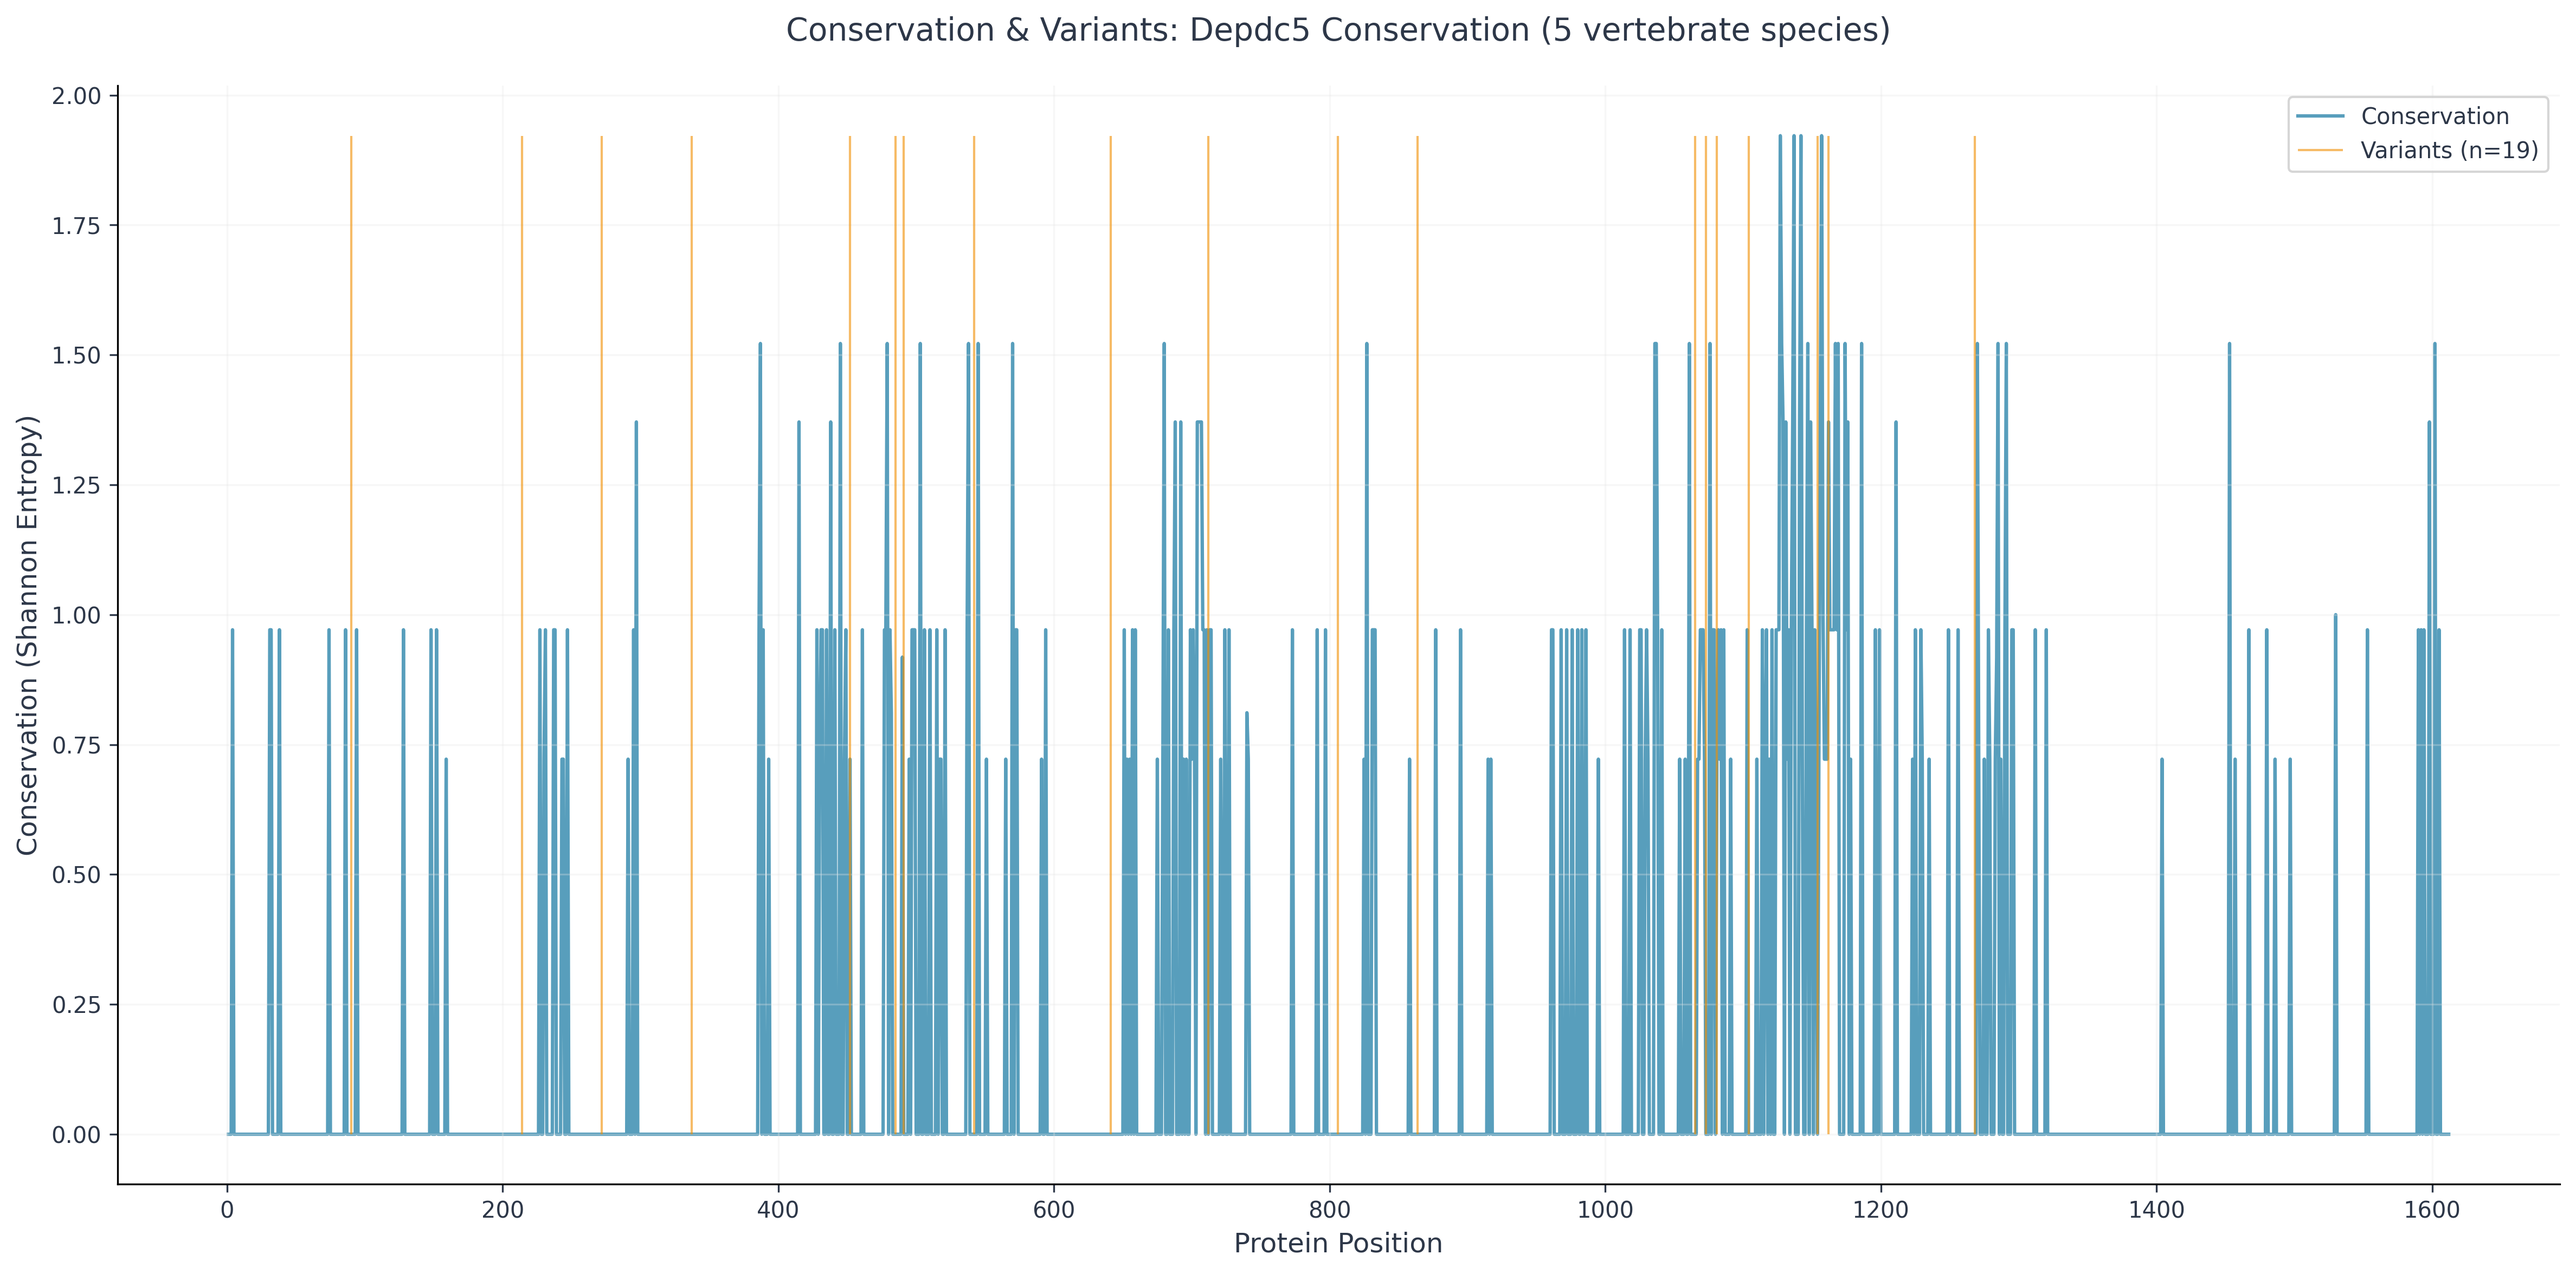
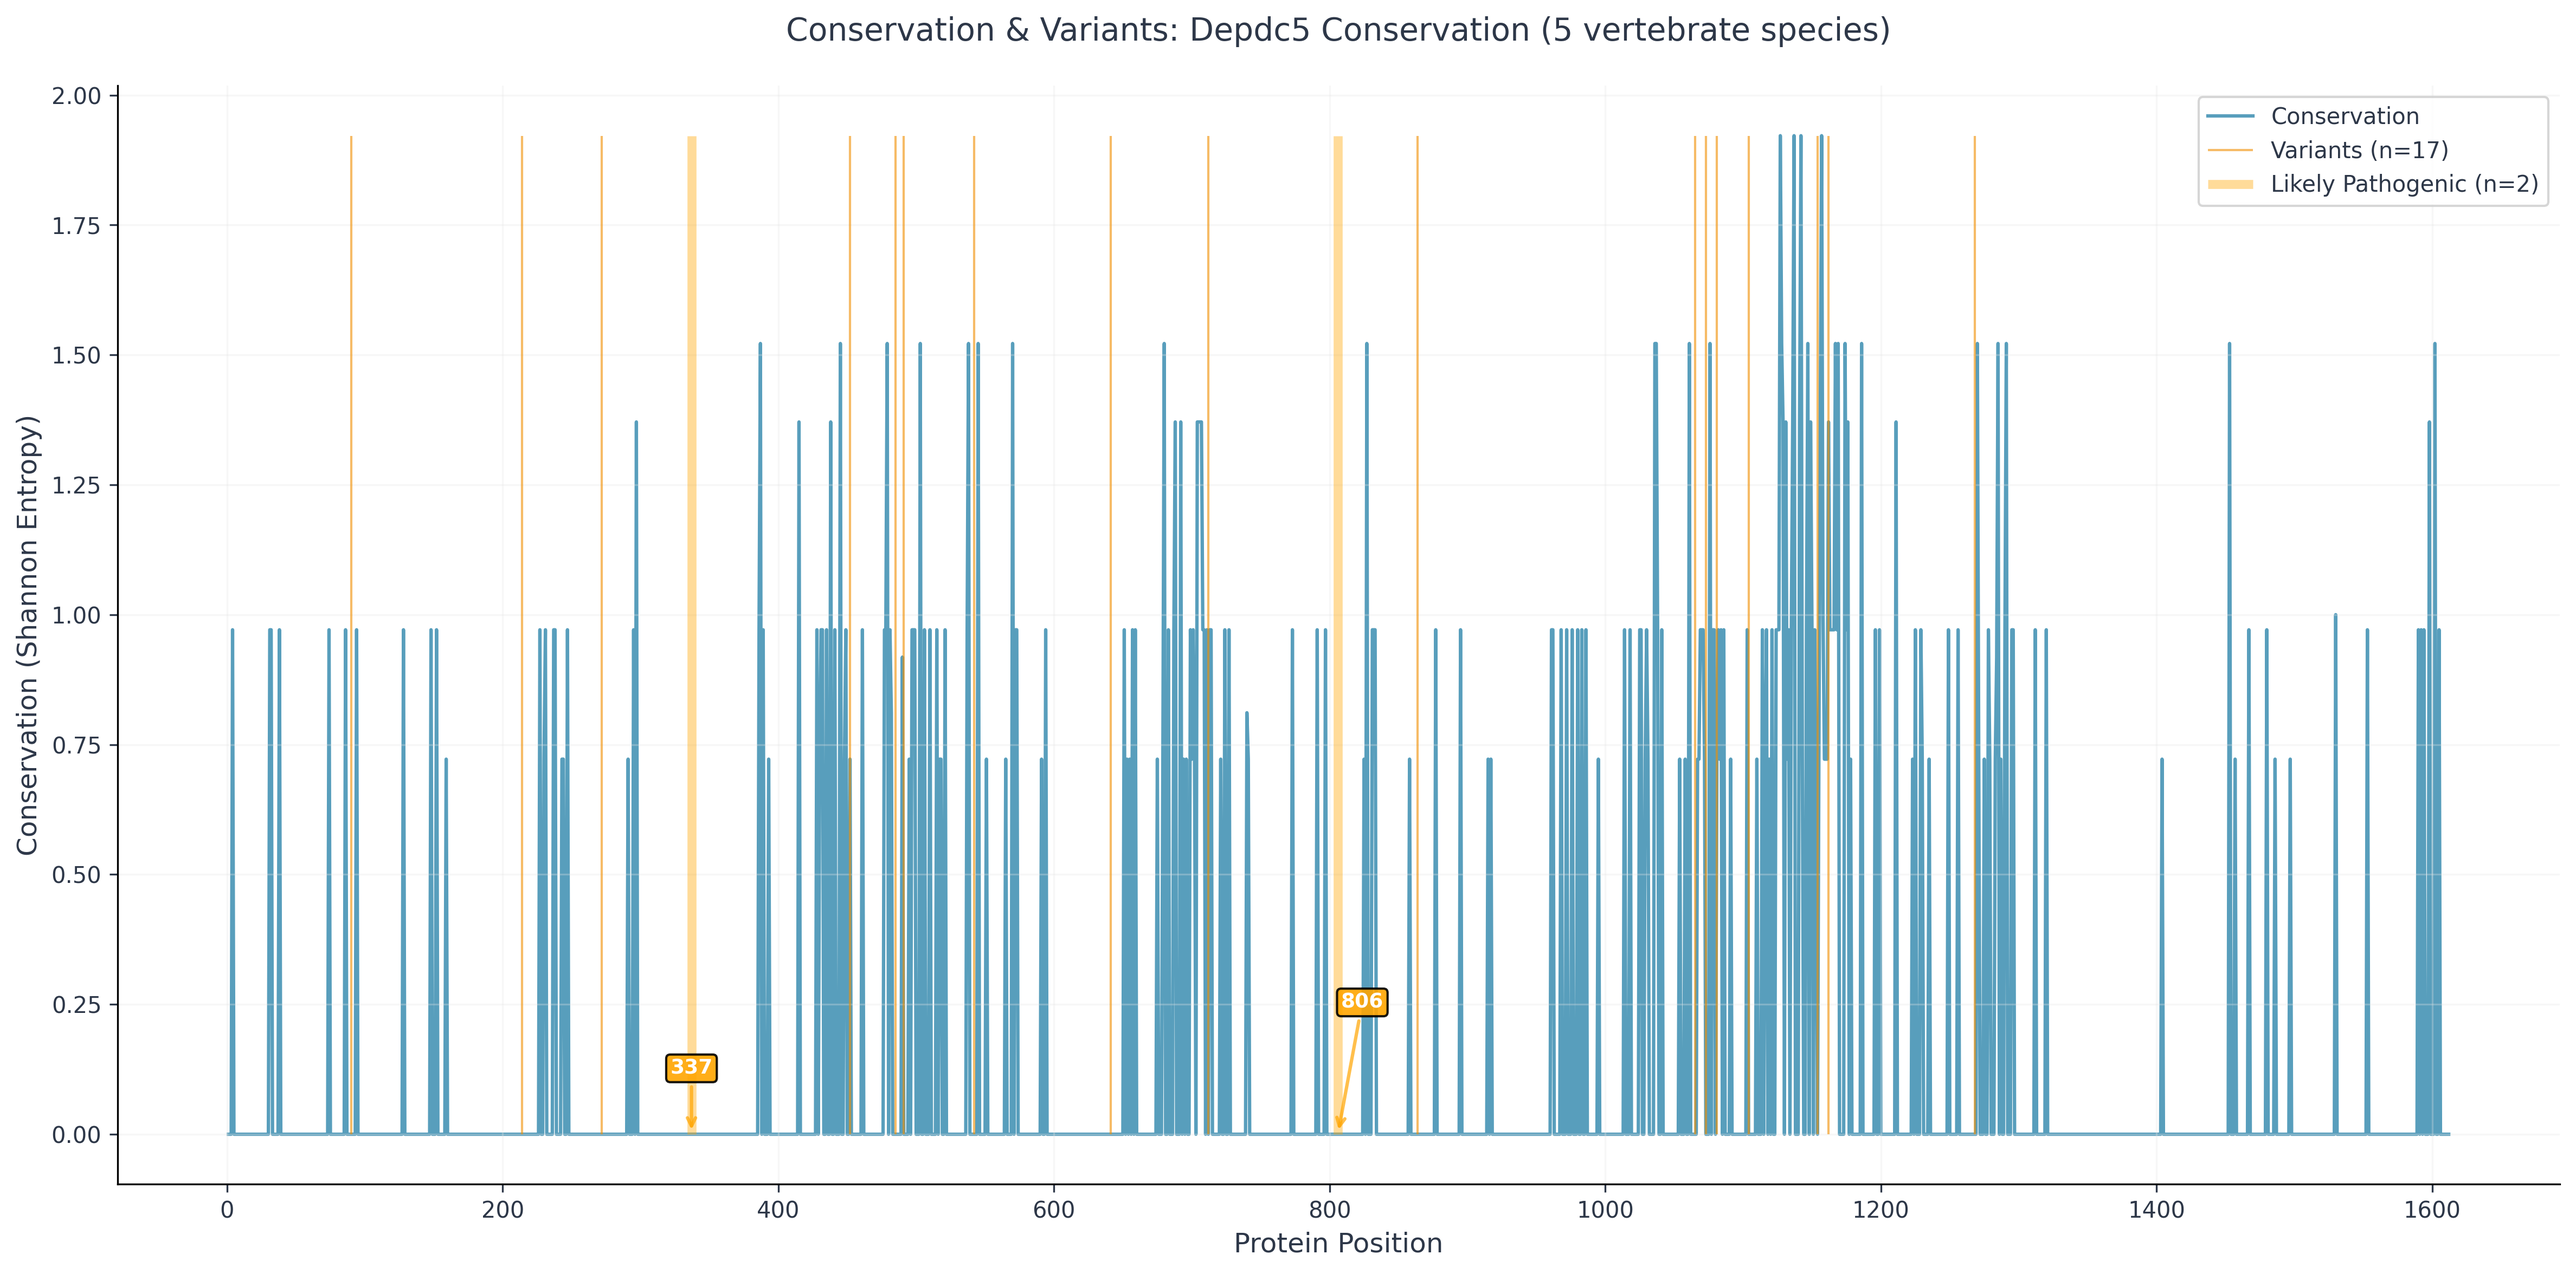
update plots

Changed region(s): [[0.4983, 0.1241, 0.5606, 0.869], [0.2492, 0.1241, 0.2803, 0.869], [0.8409, 0.0621, 0.9966, 0.1552]]

diff --git a/src/comparative_genomics_pipeline/visualization/scientific_plots.py b/src/comparative_genomics_pipeline/visualization/scientific_plots.py
@@ -407,8 +407,10 @@ class VariantPlotter(BasePlotter):
         
         
         # Intelligent variant clustering and display
-        variant_positions = vars_df['parsed_position'].values
-        lof_positions = [177, 227, 393, 939, 959, 1289]
+        variant_positions = np.array(vars_df['parsed_position'].values)
+        
+        # Dynamically classify variants from raw data descriptions - NO hardcoding!
+        lof_positions, pathogenic_positions, additional_classifications = self._get_dynamic_variant_classifications(vars_df, title_base)
         
         # Define y-axis limits for vertical lines
         y_min = consv_df['ShannonEntropy_NoGaps'].min()
@@ -420,7 +422,10 @@ class VariantPlotter(BasePlotter):
             regular_positions, lof_variant_positions = self._separate_lof_variants(clustered_positions, lof_positions)
         else:
             lof_mask = np.isin(variant_positions, lof_positions)
-            regular_positions = variant_positions[~lof_mask]
+            pathogenic_mask = np.isin(variant_positions, pathogenic_positions)
+            # Regular positions are those that are neither LOF nor pathogenic
+            regular_mask = ~(lof_mask | pathogenic_mask)
+            regular_positions = variant_positions[regular_mask]
             lof_variant_positions = variant_positions[lof_mask]
         
         # Plot regular variants with density adaptation
@@ -450,16 +455,21 @@ class VariantPlotter(BasePlotter):
                      colors='red', alpha=0.3, linewidth=6, 
                      label=f'Loss-of-function (n={len(lof_variant_positions)})', zorder=4)
             
-            # Add LoF variant annotations if not too many
+            # Add LoF variant annotations with smart positioning to avoid overlap
             if len(lof_variant_positions) <= 10:
-                for pos in lof_variant_positions:
-                    if pos in consv_df['Position'].values:
-                        conservation_score = consv_df[consv_df['Position'] == pos]['ShannonEntropy_NoGaps'].iloc[0]
-                        ax.annotate(f'{pos}', xy=(pos, conservation_score), 
-                                   xytext=(5, 10), textcoords='offset points',
-                                   fontsize=self.theme.tick_fontsize-1, 
-                                   bbox=dict(boxstyle='round,pad=0.3', facecolor='red', alpha=0.7),
-                                   color='white', weight='bold')
+                self._add_smart_annotations(ax, consv_df, lof_variant_positions, 'red', 'LOF')
+        
+        # Highlight pathogenic variants with distinct visual markers
+        pathogenic_mask = np.isin(variant_positions, pathogenic_positions)
+        pathogenic_variant_positions = variant_positions[pathogenic_mask]
+        if len(pathogenic_variant_positions) > 0:
+            ax.vlines(pathogenic_variant_positions, y_min, y_max,
+                     colors='orange', alpha=0.4, linewidth=4, 
+                     label=f'Likely Pathogenic (n={len(pathogenic_variant_positions)})', zorder=3)
+            
+            # Add likely pathogenic variant annotations with smart positioning to avoid overlap
+            if len(pathogenic_variant_positions) <= 15:
+                self._add_smart_annotations(ax, consv_df, pathogenic_variant_positions, 'orange', 'LP')
         
         # Enhanced formatting
         ax.set_xlabel('Protein Position', fontsize=self.theme.label_fontsize)
@@ -503,3 +513,150 @@ class VariantPlotter(BasePlotter):
         regular_positions = positions[~lof_mask]
         lof_variant_positions = positions[lof_mask]
         return regular_positions, lof_variant_positions
+    
+    def _get_dynamic_variant_classifications(self, vars_df: pd.DataFrame, title_base: str) -> Tuple[List[int], List[int], Dict[str, List[int]]]:
+        """Dynamically classify variants based ONLY on raw data descriptions - NO hardcoding."""
+        lof_positions = []
+        pathogenic_positions = []
+        additional_classifications = {
+            'benign': [],
+            'uncertain': [],
+            'borderline': [],
+            'reduced_function': []
+        }
+        
+        # Extract ALL variant classifications DYNAMICALLY from raw description data
+        if 'description' in vars_df.columns:
+            for _, row in vars_df.iterrows():
+                pos = row['parsed_position']
+                desc = str(row.get('description', '')).lower()
+                
+                # Comprehensive variant classification based on actual data descriptions
+                
+                # Likely pathogenic variants (strict matching for scientific accuracy)
+                if 'likely pathogenic' in desc:
+                    pathogenic_positions.append(pos)
+                
+                # Likely benign variants
+                if 'likely benign' in desc:
+                    additional_classifications['benign'].append(pos)
+                
+                # Uncertain significance
+                if 'uncertain significance' in desc:
+                    additional_classifications['uncertain'].append(pos)
+                
+                # Borderline phenotype
+                if 'borderline' in desc:
+                    additional_classifications['borderline'].append(pos)
+                
+                # Reduced function (non-LOF but impaired)
+                if any(term in desc for term in ['reduced function', 'decreased peak current', 'impaired channel', 'reduced current']):
+                    additional_classifications['reduced_function'].append(pos)
+                
+                # Comprehensive LOF detection based on actual data patterns
+                lof_indicators = [
+                    'loss of function',
+                    'loss-of-function',
+                    'non-functional channel',
+                    'results in a non-functional channel',
+                    'complete absence of sodium current',
+                    'absence of sodium current', 
+                    'complete loss of sodium ion transmembrane transport',
+                    'complete loss of sodium'
+                ]
+                
+                if any(indicator in desc for indicator in lof_indicators):
+                    lof_positions.append(pos)
+        
+        # NO HARDCODING! All classifications must come from raw data descriptions.
+        # This ensures the pipeline scales to any gene and accurately reflects the actual data.
+        
+        return sorted(list(set(lof_positions))), sorted(list(set(pathogenic_positions))), additional_classifications
+    
+    def _add_smart_annotations(self, ax: plt.Axes, consv_df: pd.DataFrame, 
+                             positions: np.ndarray, color: str, annotation_type: str) -> None:
+        """Add annotations with smart positioning to avoid overlap."""
+        if len(positions) == 0:
+            return
+        
+        # Sort positions for consistent annotation placement
+        sorted_positions = np.sort(positions)
+        
+        # Calculate minimum distance for overlap detection (in data coordinates)
+        x_range = ax.get_xlim()[1] - ax.get_xlim()[0]
+        # Use smaller threshold for tighter grouping - positions within 30 units are considered overlapping
+        min_distance = min(30, x_range * 0.02)  # 30 positions or 2% of x-range, whichever is smaller
+        
+        # Group positions that are close together
+        position_groups = []
+        current_group = [sorted_positions[0]]
+        
+        for pos in sorted_positions[1:]:
+            if pos - current_group[-1] < min_distance:
+                current_group.append(pos)
+            else:
+                position_groups.append(current_group)
+                current_group = [pos]
+        position_groups.append(current_group)
+        
+        # Get plot boundaries to avoid overlapping with axis labels
+        y_range = ax.get_ylim()[1] - ax.get_ylim()[0]
+        y_min_plot, y_max_plot = ax.get_ylim()
+        
+        # Define safe vertical offsets that stay within plot area
+        # Positive offsets: stay below top 15% of plot area
+        # Negative offsets: stay above bottom 20% of plot area (to avoid x-axis label)
+        safe_top = y_max_plot - (y_range * 0.15)
+        safe_bottom = y_min_plot + (y_range * 0.25)
+        
+        # Calculate offsets in data coordinates (not points)
+        y_offset_data = y_range * 0.06  # 6% of y-range for better spacing
+        y_offsets_data = [y_offset_data, y_offset_data * 2, y_offset_data * 3, y_offset_data * 4,
+                         -y_offset_data, -y_offset_data * 2, -y_offset_data * 3, -y_offset_data * 4]
+        # More varied horizontal offsets for better separation
+        x_offsets_data = [0, x_range * 0.01, -x_range * 0.01, x_range * 0.015, -x_range * 0.015, 
+                         x_range * 0.02, -x_range * 0.02, x_range * 0.008]
+        
+        group_idx = 0
+        for group in position_groups:
+            for i, pos in enumerate(group):
+                if pos in consv_df['Position'].values:
+                    conservation_score = consv_df[consv_df['Position'] == pos]['ShannonEntropy_NoGaps'].iloc[0]
+                    
+                    # Use alternating offsets for overlapping positions
+                    offset_idx = (group_idx * len(group) + i) % len(y_offsets_data)
+                    y_offset_data_val = y_offsets_data[offset_idx]
+                    x_offset_data_val = x_offsets_data[offset_idx]
+                    
+                    # Calculate annotation position in data coordinates
+                    if y_offset_data_val > 0:
+                        # Positive offset: place above, but check if it fits
+                        annotation_y = min(conservation_score + y_offset_data_val, safe_top)
+                    else:
+                        # Negative offset: place below, but check if it fits
+                        annotation_y = max(conservation_score + y_offset_data_val, safe_bottom)
+                    
+                    # Calculate horizontal position with offset
+                    annotation_x = pos + x_offset_data_val
+                    
+                    # Adjust font size for crowded areas
+                    font_size = max(self.theme.tick_fontsize - 2, 6) if len(group) > 3 else self.theme.tick_fontsize - 1
+                    
+                    # Use abbreviated labels for crowded areas
+                    if len(group) > 2:
+                        label = f'{annotation_type}\n{pos}'
+                    else:
+                        label = f'{pos}'
+                    
+                    # Use data coordinates for annotation to keep it within safe area
+                    # Set high z-order to ensure annotations appear on top of all other elements
+                    ax.annotate(label, xy=(pos, conservation_score), 
+                               xytext=(annotation_x, annotation_y), textcoords='data',
+                               fontsize=font_size, 
+                               bbox=dict(boxstyle='round,pad=0.2', facecolor=color, alpha=0.9),
+                               color='white', weight='bold',
+                               ha='center', va='center', zorder=10,
+                               arrowprops=dict(arrowstyle='->', color=color, alpha=0.7, lw=1.5, zorder=9)
+                               if (abs(annotation_y - conservation_score) > y_range * 0.02 or 
+                                   abs(annotation_x - pos) > x_range * 0.005) else None)
+            group_idx += 1
